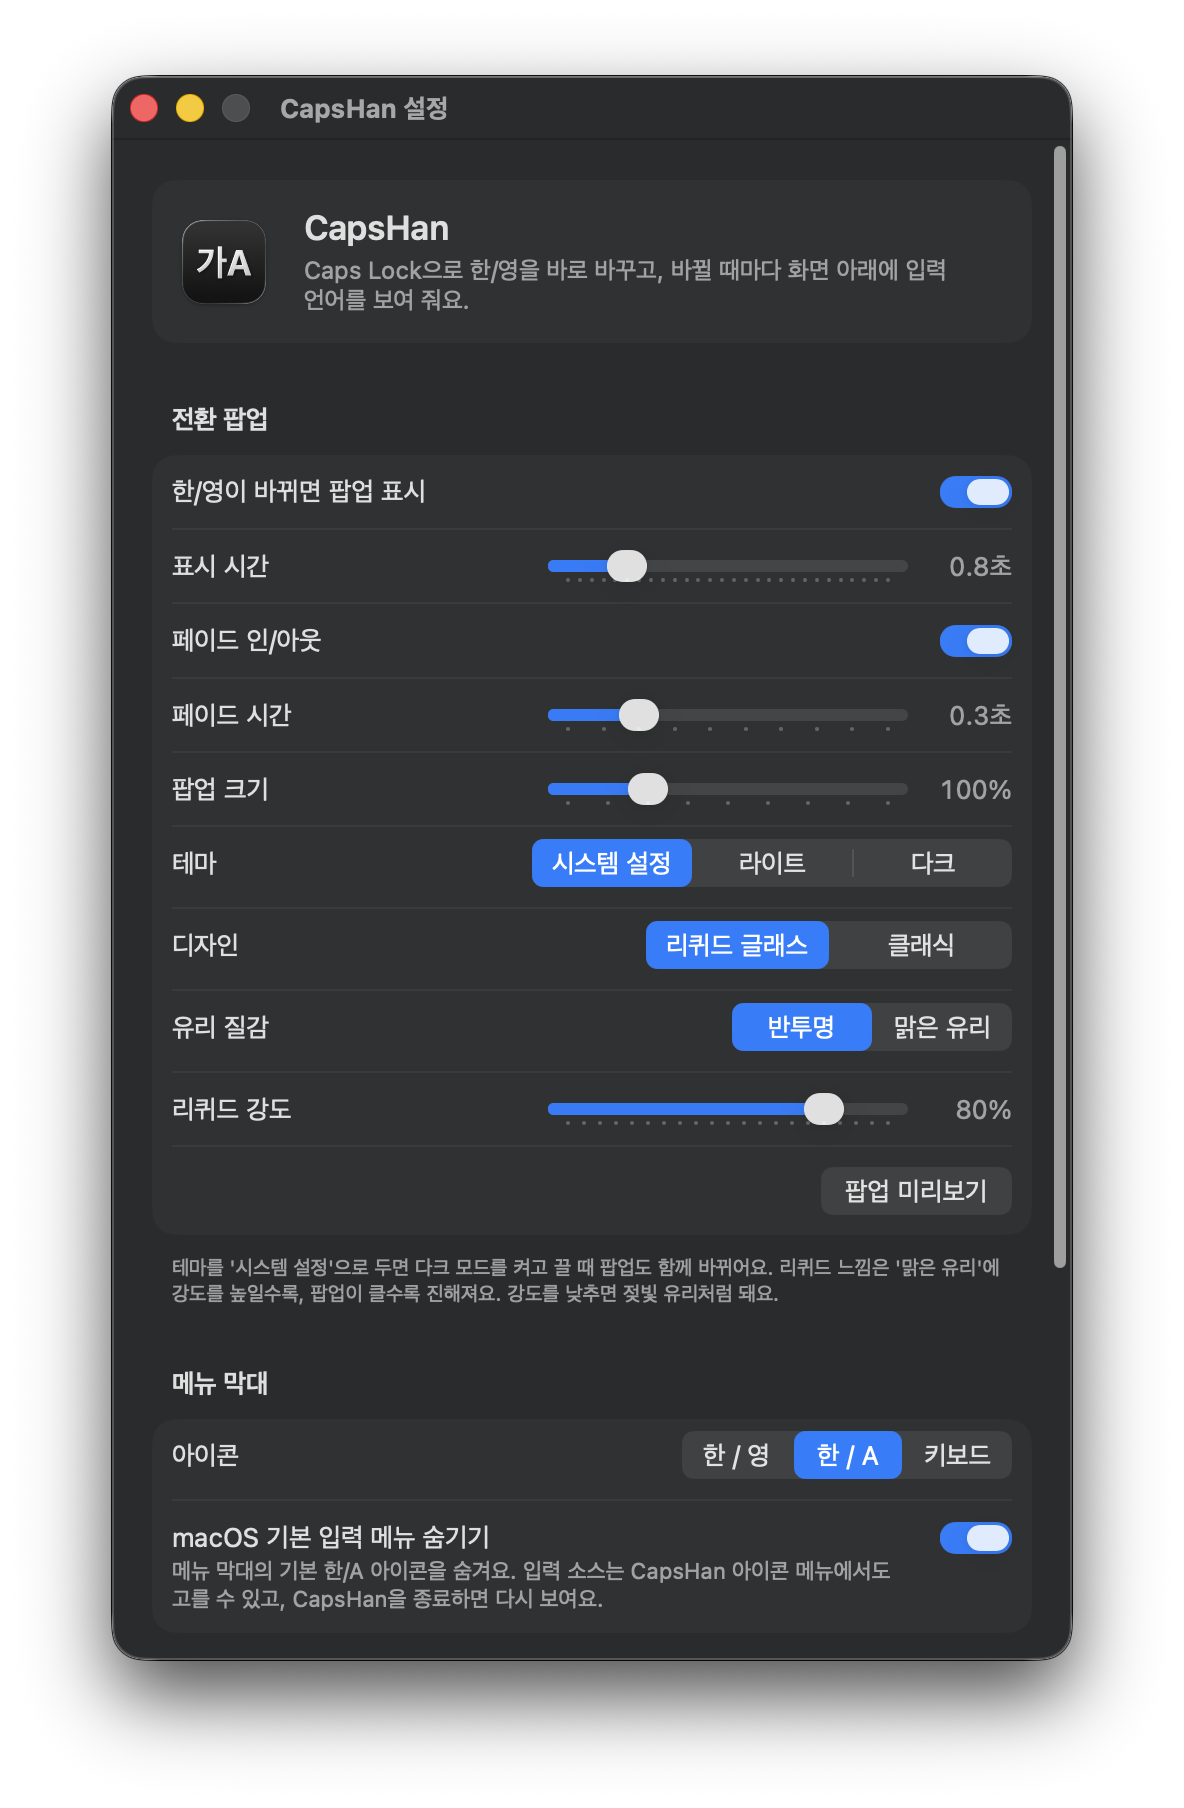
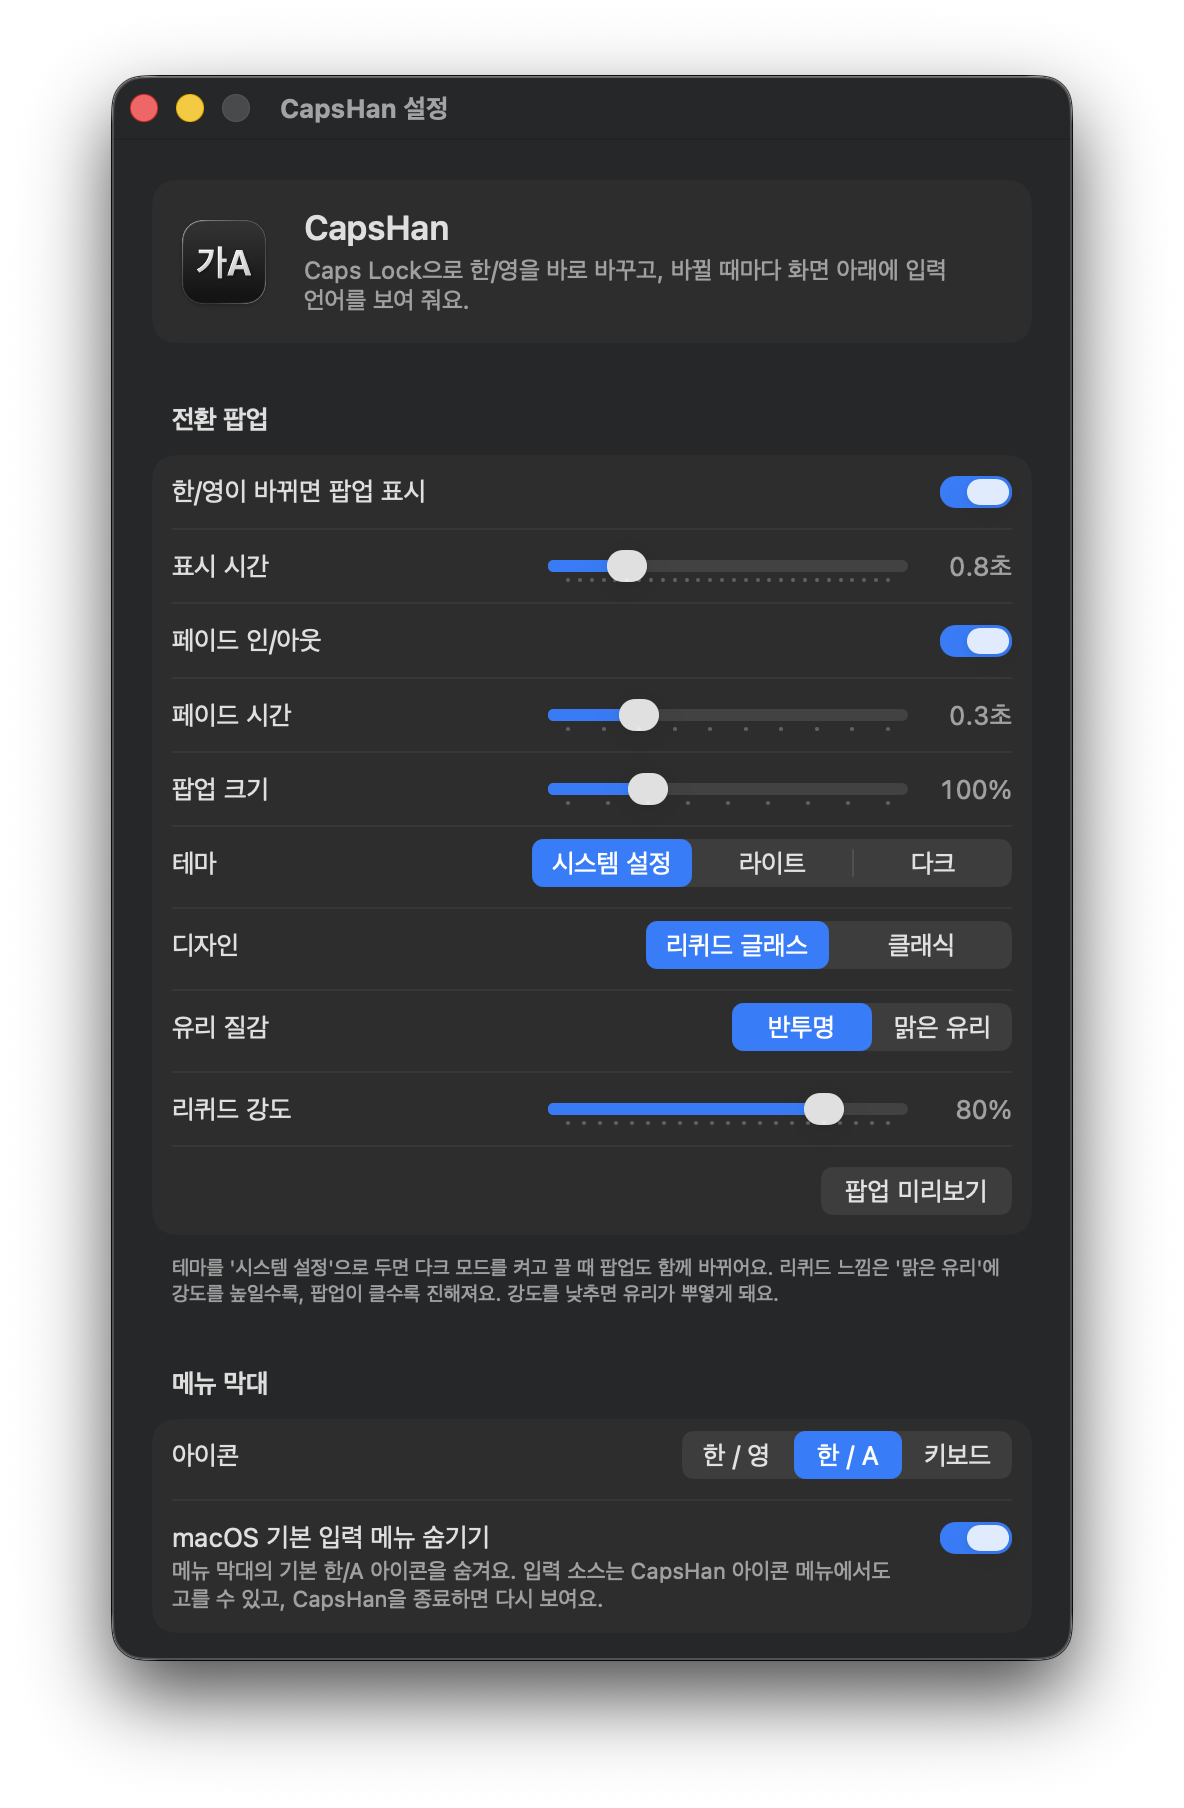
Use plainer wording for the glass strength hint

Changed region(s): [[0.875, 0.0619, 0.9062, 0.7124], [0.5312, 0.7124, 0.625, 0.7434]]

diff --git a/Sources/SettingsWindow.swift b/Sources/SettingsWindow.swift
@@ -201,7 +201,7 @@ private struct SettingsView: View {
     private var footerText: String {
         var text = "테마를 '시스템 설정'으로 두면 다크 모드를 켜고 끌 때 팝업도 함께 바뀌어요."
         if Settings.isLiquidGlassAvailable {
-            text += " 리퀴드 느낌은 '맑은 유리'에 강도를 높일수록, 팝업이 클수록 진해져요. 강도를 낮추면 젖빛 유리처럼 돼요."
+            text += " 리퀴드 느낌은 '맑은 유리'에 강도를 높일수록, 팝업이 클수록 진해져요. 강도를 낮추면 유리가 뿌옇게 돼요."
         } else {
             text += " 리퀴드 글래스는 macOS 26 이상에서 쓸 수 있어요."
         }

diff --git a/README.md b/README.md
@@ -50,7 +50,7 @@ macOS의 'Caps Lock 키로 ABC 입력 소스 전환' 옵션은 더 이상 쓰이
 | 테마 | 시스템 설정 / 라이트 / 다크 |
 | 디자인 | 리퀴드 글래스 / 클래식 |
 | 유리 질감 | 반투명 / 맑은 유리 (리퀴드 글래스일 때) |
-| 리퀴드 강도 | 낮출수록 젖빛 유리처럼 됨 (리퀴드 글래스일 때) |
+| 리퀴드 강도 | 낮출수록 유리가 뿌옇게 됨 (리퀴드 글래스일 때) |
 | 메뉴 막대 아이콘 | 한/영, 한/A, 키보드 |
 | 기본 입력 메뉴 숨기기 | macOS 기본 입력 아이콘 숨김. CapsHan을 종료하면 다시 보임 |
 | Caps Lock으로 한/영 전환 | 끄면 Caps Lock이 원래대로 돌아옴 |
